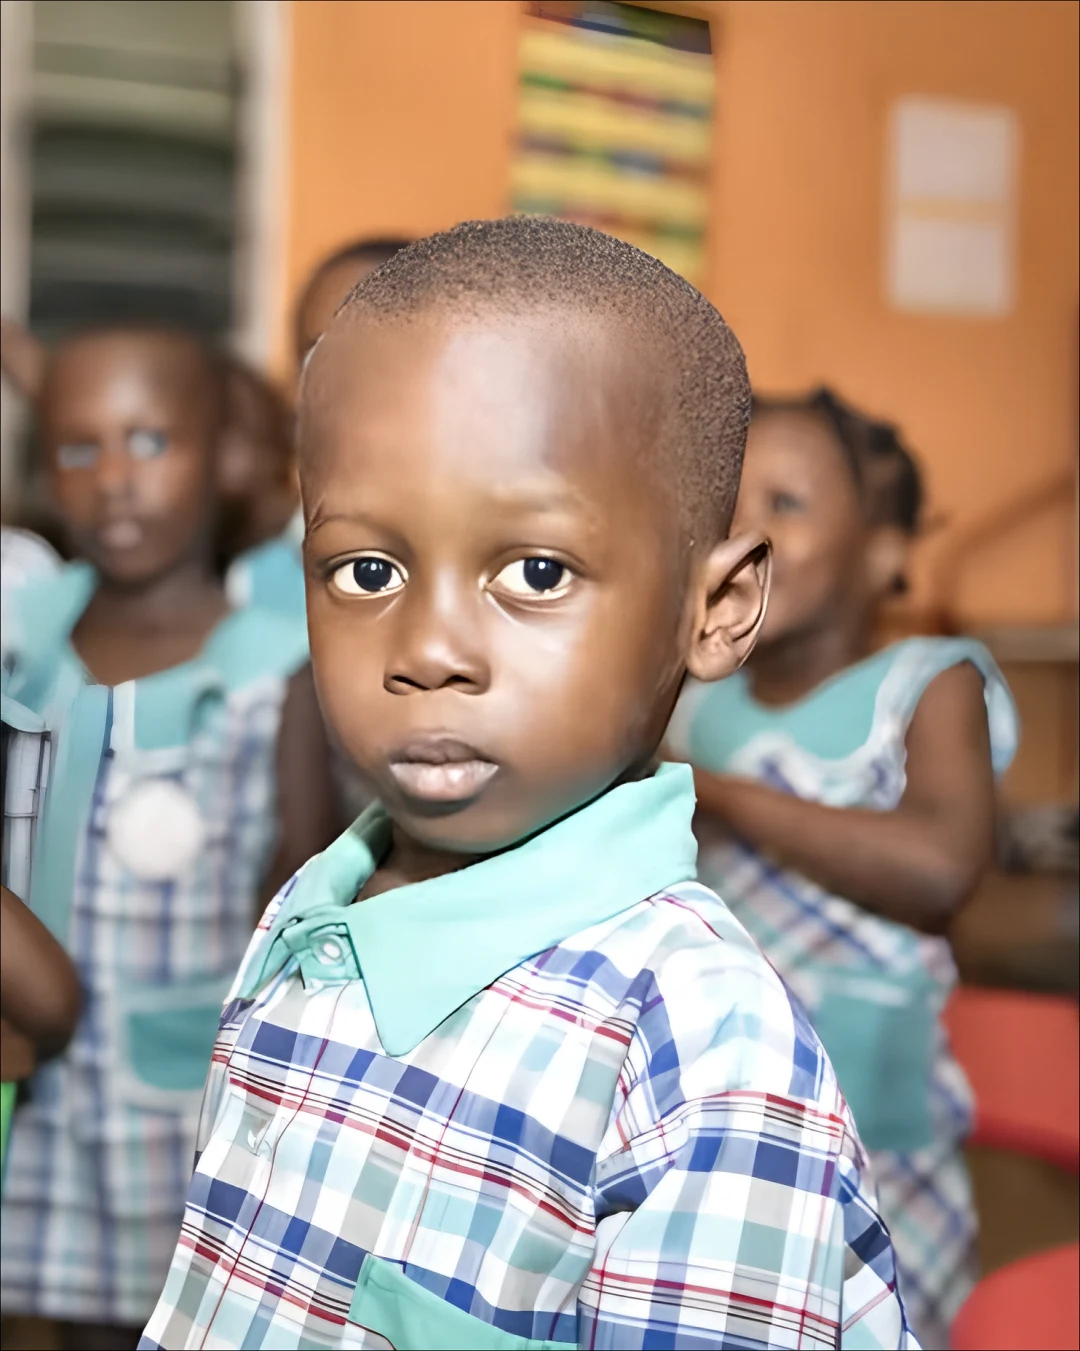
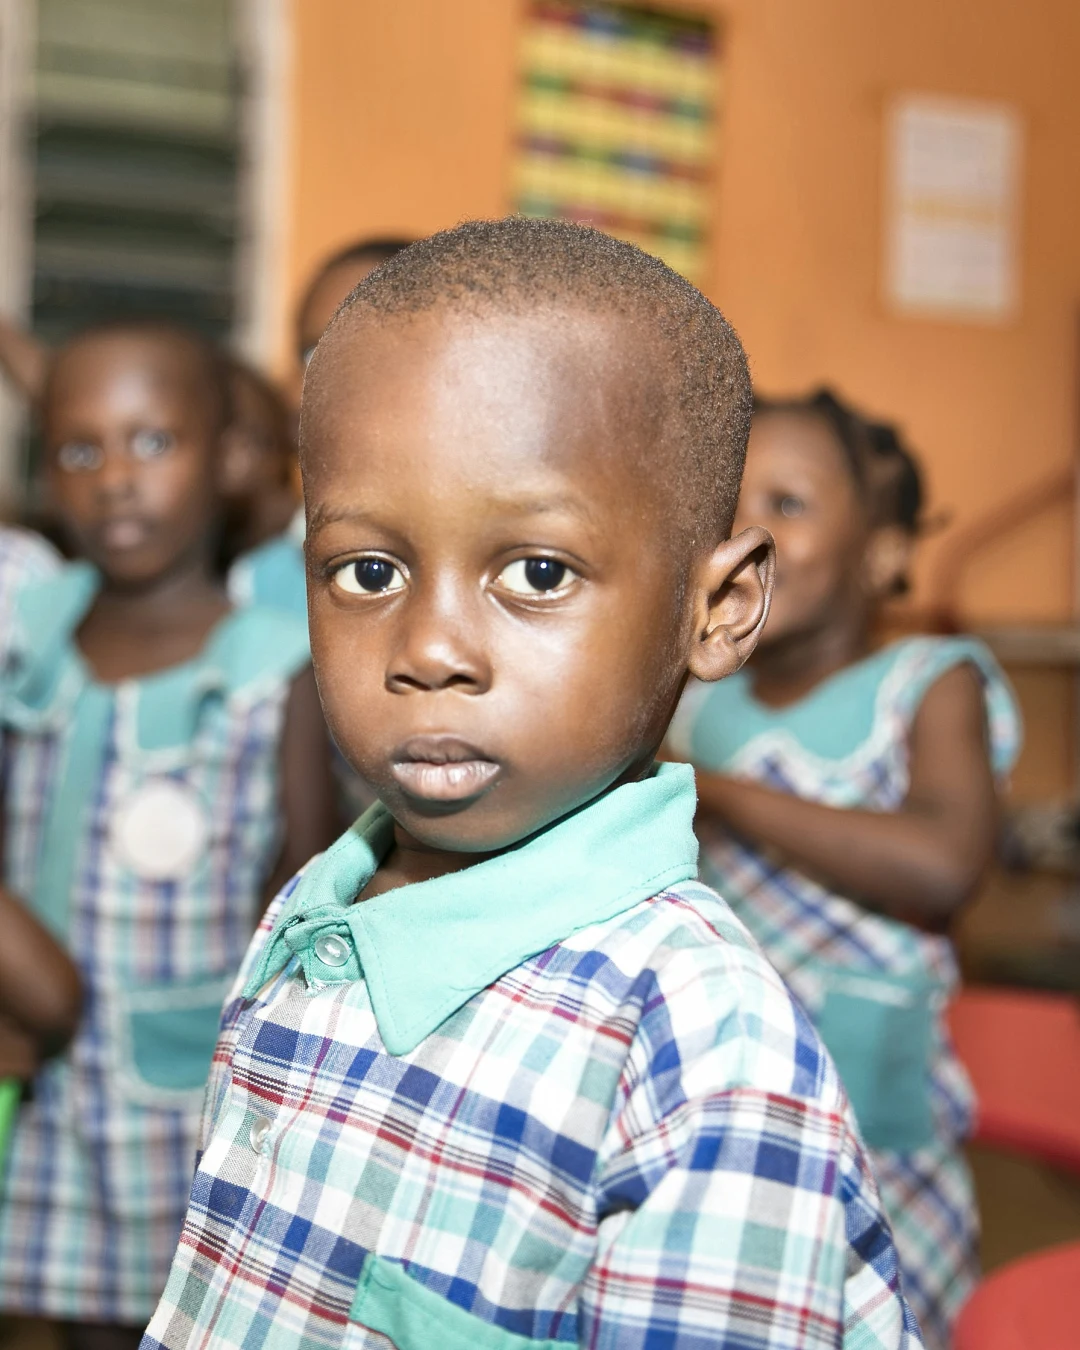
feat: full-size school uniform photo
Rebuilt from the 2895x2240 Unsplash original instead of the 600px preview,
at native resolution. The upscale script now skips sources 1600px and wider,
where upscaling from 540px would lose detail.

diff --git a/src/client/Explore.tsx b/src/client/Explore.tsx
@@ -102,7 +102,7 @@ export function Explore() {
               return (
                 <motion.div key={style.id} layout="position" exit={{ opacity: 0, scale: 0.96 }} transition={spring.small} className="style-tile">
                   <Reveal y={32} delay={(i % 4) * 0.06}>
-                  <button onClick={() => navigate(`/order/new?style=${style.id}`)} className="stack gap-8" style={{ textAlign: "left" }} aria-label={`Order ${style.name}, from ${money(style.fromPrice)}`}>
+                  <button onClick={() => navigate(`/order/new?style=${style.id}`)} className="stack gap-8" style={{ textAlign: "left", width: "100%" }} aria-label={`Order ${style.name}, from ${money(style.fromPrice)}`}>
                     <Photo tone={style.tone} src={style.photo} alt={style.name} sizes="(min-width: 1200px) 290px, (min-width: 810px) 33vw, 50vw" ratio="4 / 5" radius="var(--r-img)" markSize={44} />
                     <span className="stack">
                       <span className="t-title" style={{ fontSize: 15 }}>{style.name}</span>

diff --git a/scripts/upscale_photos.py b/scripts/upscale_photos.py
@@ -30,6 +30,7 @@ TILE = 128
 OVERLAP = 16
 SCALE = 4
 UPSCALE_BELOW = 1440
+NATIVE_ENOUGH = 1600
 
 
 def feather(size: int, overlap: int) -> np.ndarray:
@@ -97,7 +98,8 @@ def main() -> None:
             continue
         img = trim_letterbox(cv2.imread(str(path)))
         h, w = img.shape[:2]
-        if w >= args.below:
+        # The model is fed at MAX_WIDTH / 4 (540px), so wide sources would lose more detail than it adds.
+        if w >= args.below or w >= NATIVE_ENOUGH:
             print(f"skip {name}: already {w}px wide")
             continue
         if (OUT / f"{name}.png").exists():

diff --git a/docs/photo-sources.md b/docs/photo-sources.md
@@ -39,4 +39,4 @@ The studio's TikTok has no school uniform photos yet, so one stock photo stands 
 |---|---|---|---|
 | school-uniform.webp | School uniform style, School lookbook | "Children in plaid button-up shirt uniform" by Bright Kwabena Kyere, [unsplash.com/photos/xFPFucFuXp8](https://unsplash.com/photos/children-in-plaid-button-up-shirt-uniform-xFPFucFuXp8) | [Unsplash License](https://unsplash.com/license): free for commercial use, no credit required |
 
-The current file was built from a 600px preview, cropped to portrait around the boy and upscaled to 1484px with Real-ESRGAN. For full sharpness, replace `brand/photos-original/school-uniform.jpg` with the same crop from the 2895×2240 original, delete `brand/photos-upscaled/school-uniform.png`, and run `python scripts/build_photos.py`.
+`brand/photos-original/school-uniform.jpg` is a portrait crop (1792×2240) of the 2895×2240 original, framed on the boy. It's used at native resolution, not upscaled.
